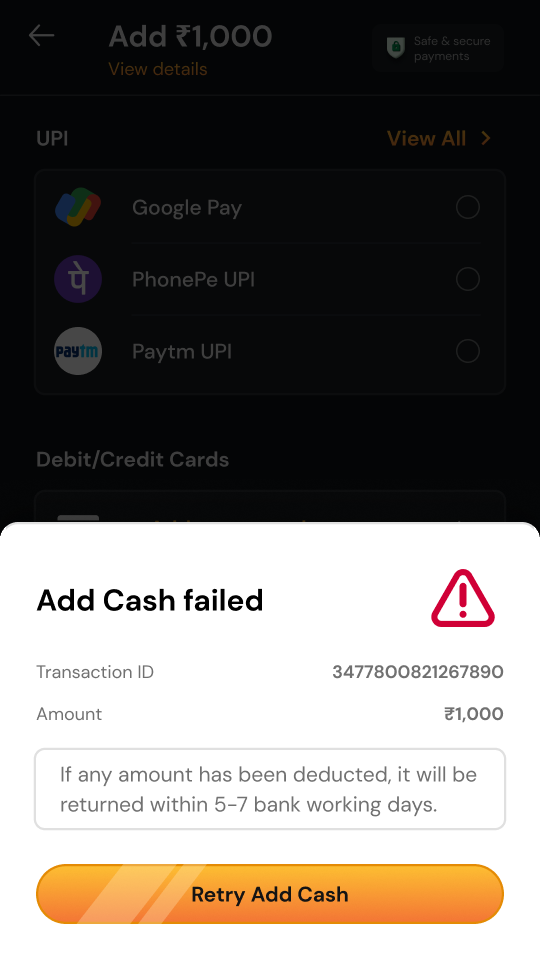
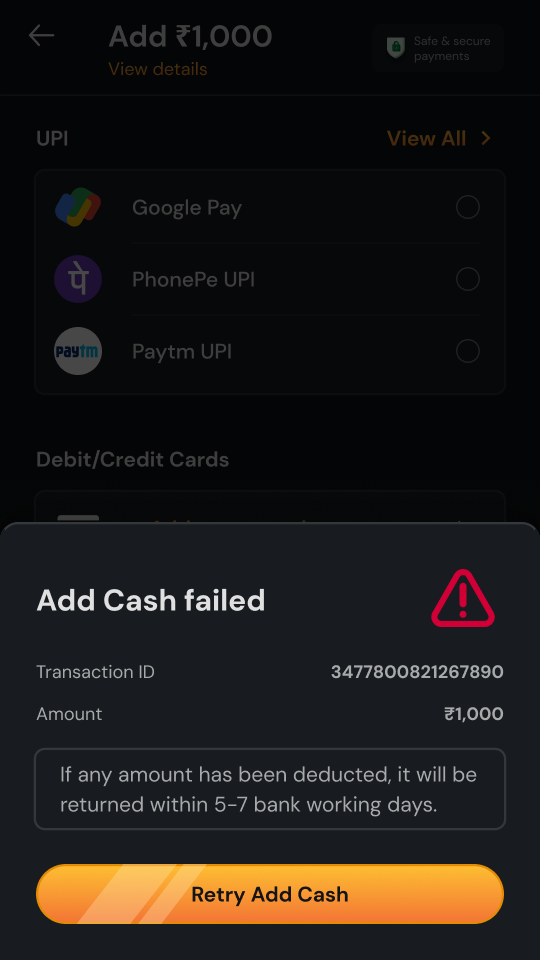
Payments: dark bottom sheets, matching the app's dark mode
The sheets had been drawn white by mistake. They now use the app's own
dark card colour and text greys; CTAs and icons are unchanged. Edge
stroke trimmed so the page hairline stays even; cache versions bumped.

diff --git a/projects/add-cash.html b/projects/add-cash.html
@@ -422,7 +422,7 @@ html:not(.js) .reveal{opacity:1;transform:none}
         </figure>
         <span class="ac-arrow" aria-hidden="true">→</span>
         <figure>
-          <img class="ac-shot" src="../assets/img/add-cash/gst-details.png?v=2" width="540" height="960" loading="lazy" decoding="async"
+          <img class="ac-shot" src="../assets/img/add-cash/gst-details.png?v=3" width="540" height="960" loading="lazy" decoding="async"
                alt="The View details sheet: ₹1,000, GST at 28% of ₹218.75, Discount Credits of ₹218.75 and a Buy-In Value of 1,000.">
           <figcaption>View details: where the money goes</figcaption>
         </figure>
@@ -455,11 +455,11 @@ html:not(.js) .reveal{opacity:1;transform:none}
     </div>
     <div class="ac-wide">
       <div class="ac-strip reveal" style="--n:5;--w:180px">
-        <figure><img class="ac-shot" src="../assets/img/add-cash/location-ask.png?v=2" width="540" height="960" loading="lazy" decoding="async" alt="A bottom sheet asking for location permission, with the reason and a Proceed to Allow button."><figcaption>Why we ask</figcaption></figure>
+        <figure><img class="ac-shot" src="../assets/img/add-cash/location-ask.png?v=3" width="540" height="960" loading="lazy" decoding="async" alt="A bottom sheet asking for location permission, with the reason and a Proceed to Allow button."><figcaption>Why we ask</figcaption></figure>
         <figure><img class="ac-shot" src="../assets/img/add-cash/location-system.png" width="540" height="960" loading="lazy" decoding="async" alt="Android's own prompt: Allow RummyCulture to access this device's location, with Allow only while using the app, Only this time and Deny."><figcaption>Android asks</figcaption></figure>
-        <figure><img class="ac-shot" src="../assets/img/add-cash/location-denied.png?v=2" width="540" height="960" loading="lazy" decoding="async" alt="Location permission denied, with a Go to Settings button."><figcaption>If they say no</figcaption></figure>
-        <figure><img class="ac-shot" src="../assets/img/add-cash/location-unavailable.png?v=2" width="540" height="960" loading="lazy" decoding="async" alt="Add cash is unavailable at your location, with a Play Practice Games button."><figcaption>Not allowed here</figcaption></figure>
-        <figure><img class="ac-shot" src="../assets/img/add-cash/kyc.png?v=2" width="540" height="960" loading="lazy" decoding="async" alt="A bottom sheet asking the player to complete KYC by uploading documents."><figcaption>KYC, when it’s needed</figcaption></figure>
+        <figure><img class="ac-shot" src="../assets/img/add-cash/location-denied.png?v=3" width="540" height="960" loading="lazy" decoding="async" alt="Location permission denied, with a Go to Settings button."><figcaption>If they say no</figcaption></figure>
+        <figure><img class="ac-shot" src="../assets/img/add-cash/location-unavailable.png?v=3" width="540" height="960" loading="lazy" decoding="async" alt="Add cash is unavailable at your location, with a Play Practice Games button."><figcaption>Not allowed here</figcaption></figure>
+        <figure><img class="ac-shot" src="../assets/img/add-cash/kyc.png?v=3" width="540" height="960" loading="lazy" decoding="async" alt="A bottom sheet asking the player to complete KYC by uploading documents."><figcaption>KYC, when it’s needed</figcaption></figure>
       </div>
     </div>
 
@@ -538,7 +538,7 @@ html:not(.js) .reveal{opacity:1;transform:none}
     </div>
     <div class="ac-wide">
       <div class="ac-strip reveal" style="--n:5;--w:180px">
-        <figure><img class="ac-shot" src="../assets/img/add-cash/wallet-number.png" width="540" height="960" loading="lazy" decoding="async" alt="A sheet confirming which phone number the Paytm wallet will be linked to."><figcaption>Which number</figcaption></figure>
+        <figure><img class="ac-shot" src="../assets/img/add-cash/wallet-number.png?v=2" width="540" height="960" loading="lazy" decoding="async" alt="A sheet confirming which phone number the Paytm wallet will be linked to."><figcaption>Which number</figcaption></figure>
         <figure><img class="ac-shot" src="../assets/img/add-cash/wallet-otp.png" width="540" height="960" loading="lazy" decoding="async" alt="Enter the OTP sent to the phone number, with Verify and Link Wallet."><figcaption>Enter the OTP</figcaption></figure>
         <figure><img class="ac-shot" src="../assets/img/add-cash/wallet-otp-limit.png" width="540" height="960" loading="lazy" decoding="async" alt="An error under the OTP field: maximum limit exhausted."><figcaption>Too many tries</figcaption></figure>
         <figure><img class="ac-shot" src="../assets/img/add-cash/wallet-linked.png" width="540" height="960" loading="lazy" decoding="async" alt="The PhonePe Wallet as preferred payment, with the payment from its ₹1,140 balance in progress."><figcaption>Paying from the wallet</figcaption></figure>
@@ -626,8 +626,8 @@ html:not(.js) .reveal{opacity:1;transform:none}
     </div>
     <div class="ac-wide">
       <div class="ac-strip reveal" style="--n:3;--w:220px">
-        <figure><img class="ac-shot" src="../assets/img/add-cash/failed.png?v=4" width="540" height="960" loading="lazy" decoding="async" alt="An Add Cash failed sheet with the transaction ID, amount, a note on refunds in 5–7 bank working days, and Retry Add Cash."><figcaption>Their money, first</figcaption></figure>
-        <figure><img class="ac-shot" src="../assets/img/add-cash/failed-retry.png?v=4" width="540" height="960" loading="lazy" decoding="async" alt="A failure sheet offering Retry with Google Pay or Try Another Method."><figcaption>Retry, or switch</figcaption></figure>
+        <figure><img class="ac-shot" src="../assets/img/add-cash/failed.png?v=5" width="540" height="960" loading="lazy" decoding="async" alt="An Add Cash failed sheet with the transaction ID, amount, a note on refunds in 5–7 bank working days, and Retry Add Cash."><figcaption>Their money, first</figcaption></figure>
+        <figure><img class="ac-shot" src="../assets/img/add-cash/failed-retry.png?v=5" width="540" height="960" loading="lazy" decoding="async" alt="A failure sheet offering Retry with Google Pay or Try Another Method."><figcaption>Retry, or switch</figcaption></figure>
         <figure><img class="ac-shot" src="../assets/img/add-cash/something-went-wrong.png" width="540" height="960" loading="lazy" decoding="async" alt="A Something went wrong state."><figcaption>Something went wrong</figcaption></figure>
       </div>
     </div>
